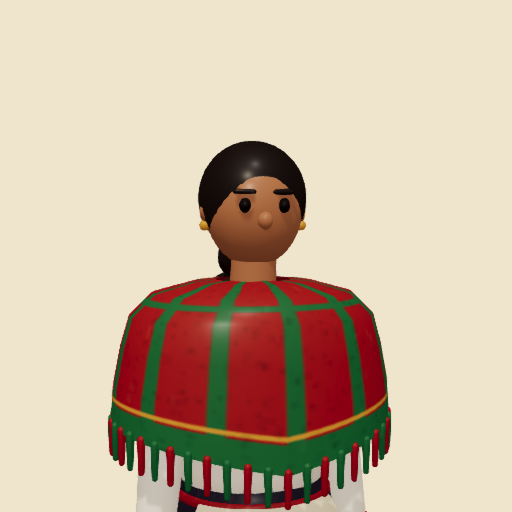
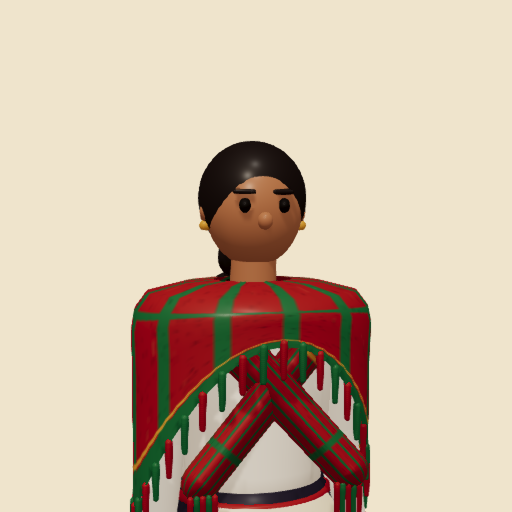
style: el chal de la artesana cae suelto y se cruza adelante

Changed region(s): [[0.1875, 0.5312, 0.7812, 1.0]]

diff --git a/src/experience/world/avatars/ArtisanWomanAvatar.ts b/src/experience/world/avatars/ArtisanWomanAvatar.ts
@@ -116,19 +116,31 @@ export class ArtisanWomanAvatar extends ProceduralAvatar {
       ctx.fillRect(0, h - 15, w, 2);
       this.atlas.fibers(ctx, w, h);
     });
+    // The shawl falls loose and long over the sides and the back and opens at the front,
+    // where its two ends cross over the chest (not the bell of a ruana).
     this.carveCape(
       shawl,
       [
-        [0.3, 1.1],
-        [0.295, 1.2],
-        [0.28, 1.3],
-        [0.262, 1.38],
-        [0.215, 1.425],
-        [0.13, 1.448],
-        [0.082, 1.452],
+        [0.255, 0.98],
+        [0.255, 1.12],
+        [0.255, 1.26],
+        [0.258, 1.35],
+        [0.25, 1.395],
+        [0.226, 1.428],
+        [0.15, 1.447],
+        [0.085, 1.452],
       ],
-      { lift: 0.06, depth: 0.78, top: 1.38, fringe: [P.RED, P.GREEN], fringeLength: 0.06 },
+      { lift: 0, frontLift: 0.36, depth: 0.8, top: 1.41, fringe: [P.RED, P.GREEN], fringeLength: 0.06 },
     );
+    for (const side of [-1, 1]) {
+      const end = this.parts.capsule("spine", shawl, [side * 0.11, 1.37, 0.14], [-side * 0.15, 1.08, 0.165 + side * 0.006], 0.045, 0.042);
+      end.scaling.z = 0.26;
+      // The end that crosses on top ends in a short fringe at the hip.
+      for (let k = -2; k <= 2; k++) {
+        const x = -side * 0.15 + k * 0.012;
+        this.parts.capsule("spine", this.atlas.solid(k % 2 ? P.GREEN : P.RED), [x, 1.05, 0.17], [x, 0.99, 0.172], 0.006, 0.005);
+      }
+    }
 
     // Braid: from the nape over the shawl down to the waist, tied with a red ribbon.
     const hair = this.atlas.solid(HAIR);

diff --git a/src/experience/world/avatars/ProceduralAvatar.ts b/src/experience/world/avatars/ProceduralAvatar.ts
@@ -23,6 +23,8 @@ export interface CapeOptions {
   top: number;
   fringe?: string[];
   fringeLength?: number;
+  /** How much the front rises (an open shawl); 0 keeps the hem level all around. */
+  frontLift?: number;
 }
 
 export abstract class ProceduralAvatar implements AvatarModel {
@@ -191,11 +193,13 @@ export abstract class ProceduralAvatar implements AvatarModel {
   protected carveCape(region: AtlasRegion, profile: [number, number][], options: CapeOptions): void {
     const hem = profile[0][1];
     const { lift, depth, top } = options;
+    const frontLift = options.frontLift ?? 0;
     const drape = (x: number, y: number, z: number): Point => {
       const radial = Math.hypot(x, z) || 1;
       const side = Math.abs(x) / radial;
       const low = Math.min(1, Math.max(0, (top - y) / (top - hem)));
-      return [x, y + lift * side * low, z * depth];
+      const front = Math.pow(Math.max(0, z) / radial, 1.5);
+      return [x, y + (lift * side + frontLift * front) * low, z * depth];
     };
     const shell = this.parts.lathe("spine", region, [0, 0, 0], profile, { tessellation: 56, doubleSided: true });
     ProceduralAvatar.reshape(shell, drape);
